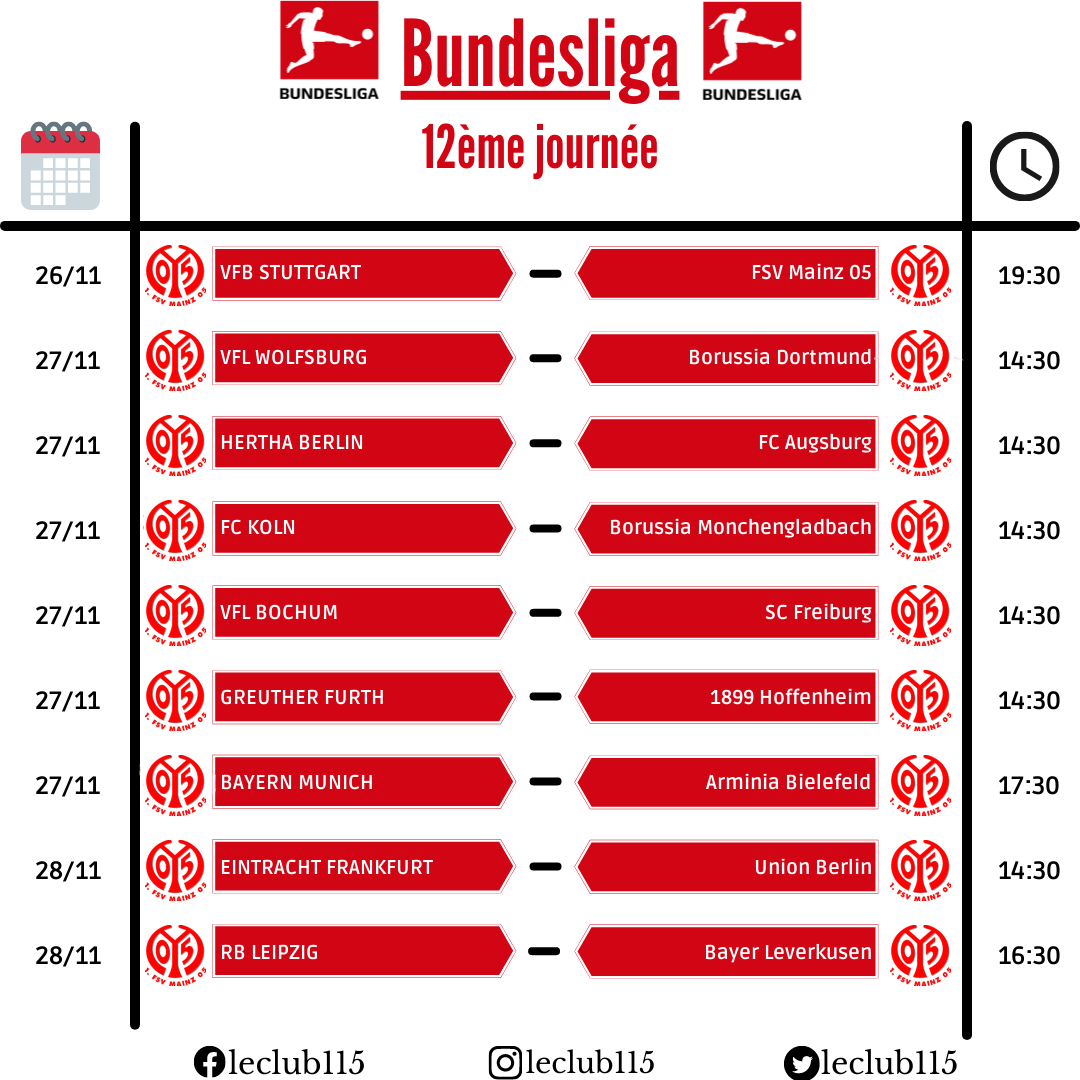
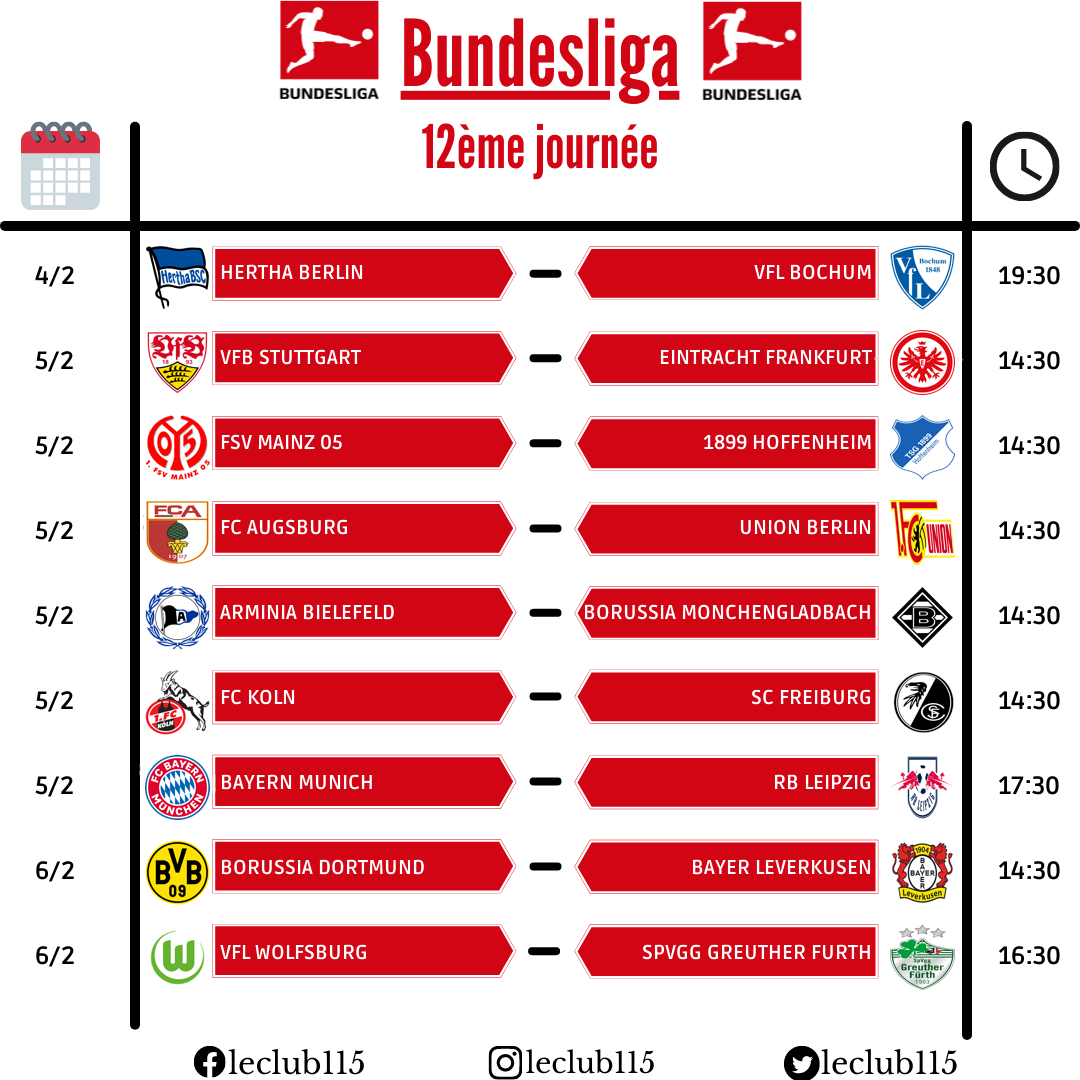
calendar done for germany only

diff --git a/main.py b/main.py
@@ -3,10 +3,12 @@ from PIL import Image, ImageFont, ImageDraw, ImageChops
 import requests
 from datetime import datetime
 import os
+import glob
 from enum import Enum
 
 f = open('data_clubs.json')
 data_clubs = json.load(f)
+
 
 class Ligues(Enum):
     GERMANY = 1,
@@ -21,7 +23,7 @@ class Ligues(Enum):
 # Remove borders from imgage
 # param : im (obj Image)
 def trim(im):
-    bg = Image.new(im.mode, im.size, im.getpixel((0,0)))
+    bg = Image.new(im.mode, im.size, im.getpixel((0, 0)))
     diff = ImageChops.difference(im, bg)
     diff = ImageChops.add(diff, diff, 2.0, -100)
     bbox = diff.getbbox()
@@ -31,6 +33,8 @@ def trim(im):
 
 # Replace transparent to white background
 # param : im (obj Image)
+
+
 def transparent(img):
     rgba = img.convert("RGBA")
     datas = rgba.getdata()
@@ -42,108 +46,135 @@ def transparent(img):
             newData.append((255, 255, 255, 255))
         else:
             newData.append(item)
-  
+
     rgba.putdata(newData)
 
     return rgba
+
+
+# Delete images from ligue directory
+# param : lige (Enum Ligues)
+def delete_imgs(ligue):
+    files = glob.glob(get_path_img_resized_per_ligue(ligue)+"/*.png")
+    for file in files:
+        try:
+            os.remove(file)
+        except OSError as e:
+            print("Error: %s : %s" % (f, e.strerror))
+
 
 # Generate correct images
 # param : path_clubs_images (String)
 #         ligue (Enum Ligues)
 def generate_img(ligue):
     ratio = 0.35
-    print(os.listdir(get_path_img_per_ligue(ligue)))
+    # Delete existing render images before generating new ones
+    delete_imgs(ligue)
+
+    print("###### GENERATING LOGOS #######")
     for filename in os.listdir(get_path_img_per_ligue(ligue)):
         print(filename)
         img = Image.open(get_path_img_per_ligue(ligue)+"/"+filename)
         width, height = img.size
-        print(img)
-        rgba = transparent(img)
-        print(rgba)
+        #rgba = img.convert("RGBA")
 
-        rgba = trim(rgba.resize((int(width*ratio),int(height*ratio)), Image.ANTIALIAS))
-        print(rgba)
+        #rgba = transparent(img)
+        resized_img = img.resize((65, 65))
+        # rgba = trim(rgba.resize(
+        #    (int(width*ratio), int(height*ratio)), Image.ANTIALIAS))
+        rgba = resized_img.convert("RGBA")
 
         rgba.save(get_path_img_resized_per_ligue(ligue)+"/"+filename)
 
 
-# Get league img logo path 
+# Get league img logo path
 # param : ligue (Enum Ligues)
-#         
+#
 def get_path_img_per_ligue(ligue):
     if ligue.GERMANY:
-        return  data_clubs['path_logo_bundesliga'] 
+        return data_clubs['path_logo_bundesliga']
     elif ligue.SPAIN:
-        return  data_clubs['path_logo_seria_a'] 
+        return data_clubs['path_logo_seria_a']
     elif ligue.ENGLAND:
-        return  data_clubs['path_logo_premier_league'] 
+        return data_clubs['path_logo_premier_league']
     elif ligue.ITALY:
-        return  data_clubs['path_logo_seria_a'] 
-    return data_clubs['path_logo_ligue_1'] 
+        return data_clubs['path_logo_seria_a']
+    return data_clubs['path_logo_ligue_1']
 
-# Get league img logo resized path 
+# Get league img logo resized path
 # param : ligue (Enum Ligues)
-#       
+#
+
+
 def get_path_img_resized_per_ligue(ligue):
     if ligue.GERMANY:
-        return  data_clubs['path_logo_resized_bundesliga'] 
+        return data_clubs['path_logo_resized_bundesliga']
     elif ligue.SPAIN:
-        return  data_clubs['path_logo_resized_seria_a'] 
+        return data_clubs['path_logo_resized_seria_a']
     elif ligue.ENGLAND:
-        return  data_clubs['path_logo_resized_premier_league'] 
+        return data_clubs['path_logo_resized_premier_league']
     elif ligue.ITALY:
-        return  data_clubs['path_logo_resized_seria_a'] 
-    return data_clubs['path_logo_resized_ligue_1'] 
+        return data_clubs['path_logo_resized_seria_a']
+    return data_clubs['path_logo_resized_ligue_1']
 
-
-    
-    
 
 ################## BUNDESLIGA TEST ####################
 # Generate next kick off image
 # param : ligue (Enum Ligues)
-#       
+#
 def generate_next_kick_off(ligue):
     # LOAD IMAGE & COPY
-    template = Image.open(data_clubs['path_templates']+"/calendrier_bundesliga.png")
+    template = Image.open(
+        data_clubs['path_templates']+"/calendrier_bundesliga.png")
     new_image = template.copy()
 
     # FONT
-    league_gothic = ImageFont.truetype(data_clubs['path_font']+'/league_gothic/LeagueGothic-Regular.otf', 30, layout_engine=ImageFont.LAYOUT_RAQM)
-    ruda_bold_teams = ImageFont.truetype(data_clubs['path_font']+'/ruda/Ruda-Bold.ttf', 20, layout_engine=ImageFont.LAYOUT_RAQM)
-    ruda_bold_time = ImageFont.truetype(data_clubs['path_font']+'/ruda/Ruda-Bold.ttf', 25, layout_engine=ImageFont.LAYOUT_RAQM)
+    league_gothic = ImageFont.truetype(
+        data_clubs['path_font']+'/league_gothic/LeagueGothic-Regular.otf', 30, layout_engine=ImageFont.LAYOUT_RAQM)
+    ruda_bold_teams = ImageFont.truetype(
+        data_clubs['path_font']+'/ruda/Ruda-Bold.ttf', 20, layout_engine=ImageFont.LAYOUT_RAQM)
+    ruda_bold_time = ImageFont.truetype(
+        data_clubs['path_font']+'/ruda/Ruda-Bold.ttf', 25, layout_engine=ImageFont.LAYOUT_RAQM)
 
     # DRAW ON TEMPLATE
     edit_image = ImageDraw.Draw(new_image)
 
     # LOAD DATA
-    f = open('test.json')
-    germany = json.load(f)['germany']
-
+    f = open('coming_rounds.json')
+    germany = json.load(f)['Germany']
 
     start_height = 260
     for play in germany:
-        img = Image.open(get_path_img_per_ligue(ligue)+"/"+filename)
+        img1 = Image.open(get_path_img_resized_per_ligue(
+            ligue)+"/"+play["team_name_home"]+".png")
 
-        
-        new_image.paste(rgba, (145,start_height-15) )
-        new_image.paste(rgba, (890,start_height-15) )
+        img2 = Image.open(get_path_img_resized_per_ligue(
+            ligue)+"/"+play["team_name_away"]+".png")
 
-        date_time = datetime.fromisoformat(play[1]) 
-        edit_image.text((35,start_height),"{}".format(str(date_time.day)+"/"+str(date_time.month)).upper(), (0,0,0), ruda_bold_time )
-        edit_image.text((998,start_height),"{}".format(str(date_time.hour)+":"+str(date_time.minute)).upper(), (0,0,0), ruda_bold_time )
-        edit_image.text((220,start_height), play[3][1].upper(), (255,255,255), ruda_bold_teams)
-        size = ruda_bold_teams.getsize(play[4][1])
-        edit_image.text((872-size[0],start_height), play[4][1], (255,255,255), ruda_bold_teams)
+        rgba1 = img1.convert("RGBA")
+        rgba2 = img2.convert("RGBA")
+
+        new_image.paste(img1, (145, start_height-15), img1)
+        new_image.paste(img2, (890, start_height-15), img2)
+
+        date_time = datetime.fromisoformat(play["event_date"])
+        edit_image.text((35, start_height), "{}".format(
+            str(date_time.day)+"/"+str(date_time.month)).upper(), (0, 0, 0), ruda_bold_time)
+        edit_image.text((998, start_height), "{}".format(
+            str(date_time.hour)+":"+str(date_time.minute)).upper(), (0, 0, 0), ruda_bold_time)
+        edit_image.text((220, start_height),
+                        play["team_name_home"].upper(), (255, 255, 255), ruda_bold_teams)
+        size = ruda_bold_teams.getsize(play["team_name_away"].upper())
+        edit_image.text((872-size[0], start_height),
+                        play["team_name_away"].upper(), (255, 255, 255), ruda_bold_teams)
         start_height += 85
 
-
-
-    #SAVE IMAGE
+    # SAVE IMAGE
     new_image.save(data_clubs['path_render']+"/bundesliga.png", quality=100)
 
+
 # First when project is load up, need to create right logos
-#generate_img(Ligues.GERMANY)
+generate_img(Ligues.GERMANY)
 
 # Generate next kick-off
 

diff --git a/api.py b/api.py
@@ -24,6 +24,7 @@ current_year = datetime.datetime.now().year if datetime.datetime.now(
 
 # Get leagues infos
 # ['name', 'id', 'season', 'country']
+# Some problems on league id
 
 
 def get_leagues_infos():
@@ -39,7 +40,8 @@ def get_leagues_infos():
                 "league_id": league["league_id"],
                 "league_name": league['name'],
                 "league_season": league["season"],
-                "league_teams": []
+                "league_teams": [],
+                "league_logo": league["logo"]
             }
     # Get teams
     count = 0
@@ -64,19 +66,33 @@ def get_next_leagues_round():
     with open("leaugues_infos.json", "r") as read_file:
         leagues = json.load(read_file)
 
-    # Get next round & next matches
     # { 'country' : ['id', 'event_date', 'round', ['team_id', 'team_name', 'logo'], ['team_id', 'team_name', 'logo']]}
     coming_play_off_per_country = {}
     print(leagues)
     for league in leagues.items():
         coming_round = requests.get("https://api-football-v1.p.rapidapi.com/v2/fixtures/rounds/{}/current".format(
             league[1]["league_id"]), headers=headers).json()['api']['fixtures'][0]
-        print(league[1], coming_round)
+        print(coming_round)
         coming_play_off = requests.get("https://api-football-v1.p.rapidapi.com/v2/fixtures/league/{}/{}".format(
             league[1]["league_id"], coming_round), headers=headers).json()['api']['fixtures']
-        coming_play_off = [[play_off['fixture_id'], play_off['event_date'], play_off['round'], [play_off['homeTeam']['team_id'], play_off['homeTeam']['team_name'],
-                                                                                                play_off['homeTeam']['logo']], [play_off['awayTeam']['team_id'], play_off['awayTeam']['team_name'], play_off['awayTeam']['logo']]] for play_off in coming_play_off]
-        coming_play_off_per_country[league[0]] = coming_play_off
+
+        coming_play_off_country = []
+        for play_off in coming_play_off:
+            coming_play_off_country.append(
+                {
+                    "fixture_id": play_off['fixture_id'],
+                    "event_date": play_off['event_date'],
+                    "round": play_off['round'],
+                    "team_id_home": play_off['homeTeam']['team_id'],
+                    "team_name_home": play_off['homeTeam']['team_name'],
+                    "logo_home": play_off['homeTeam']['logo'],
+                    "team_id_away": play_off['awayTeam']['team_id'],
+                    "team_name_away": play_off['awayTeam']['team_name'],
+                    "logo_away": play_off['awayTeam']['logo'],
+                }
+
+            )
+        coming_play_off_per_country[league[0]] = coming_play_off_country
 
     with open("coming_rounds.json", "w") as write_file:
         json.dump(coming_play_off_per_country,
